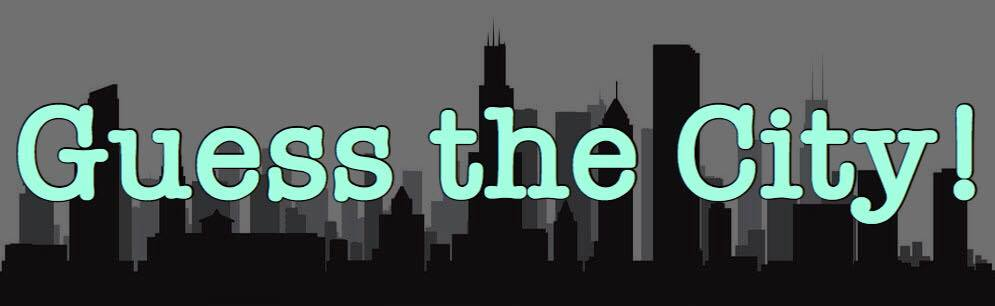
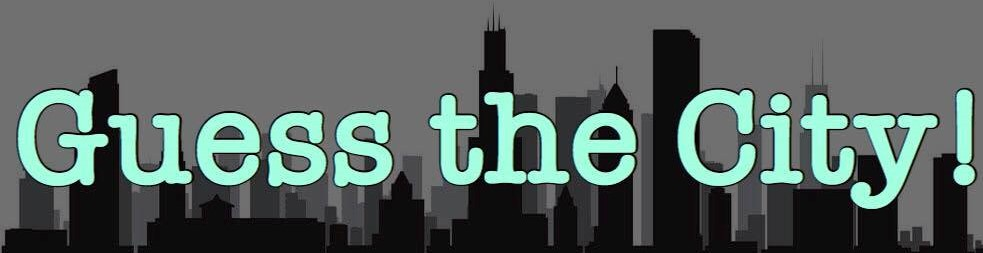
last commit monday night

diff --git a/assets/css/style.css b/assets/css/style.css
@@ -2,8 +2,8 @@ body {
   background-color: #eee;
   padding-top: 20px;
   font-family: "Gill Sans", "Gill Sans MT", Calibri, "Trebuchet MS", sans-serif;
-  color: black;
-  background: url("../images/bgimage.jpg") no-repeat;
+  color: #000;
+  background: url("../images/background7.jpg") no-repeat;
   background-size: cover;
 }
 .container {
@@ -18,6 +18,9 @@ h6 {
   padding: 5px;
   background-color: rgba(101, 155, 242, 0.2);
 }
+#title-image{
+    width: 100%;
+}
 
 #title-image,
 #gameover-image,
@@ -29,14 +32,8 @@ h6 {
 #currentWord {
   letter-spacing: 10px;
 }
-#hangmanImage,
-#gameover-image,
-#youwin-image {
+#hangmanImage {
   height: 50%;
-}
-#gameover-image,
-#youwin-image {
-  width: 100%;
 }
 
 #pressKeyTryAgain,
@@ -50,5 +47,5 @@ h6 {
   text-align: center;
   margin-top: 20px;
   min-height: 500px;
-  background-color: rgba(255, 255, 255, 0.3);
+  background-color: rgba(500, 500, 500, 0.7);
 }

diff --git a/index.html b/index.html
@@ -23,7 +23,7 @@
     <div class="container">
       <img
         id="title-image"
-        src="assets/images/Title image 2.jpg"
+        src="assets/images/Title image 5.jpg"
         alt="Hangman Title Image"
       />
       <div class="row">
